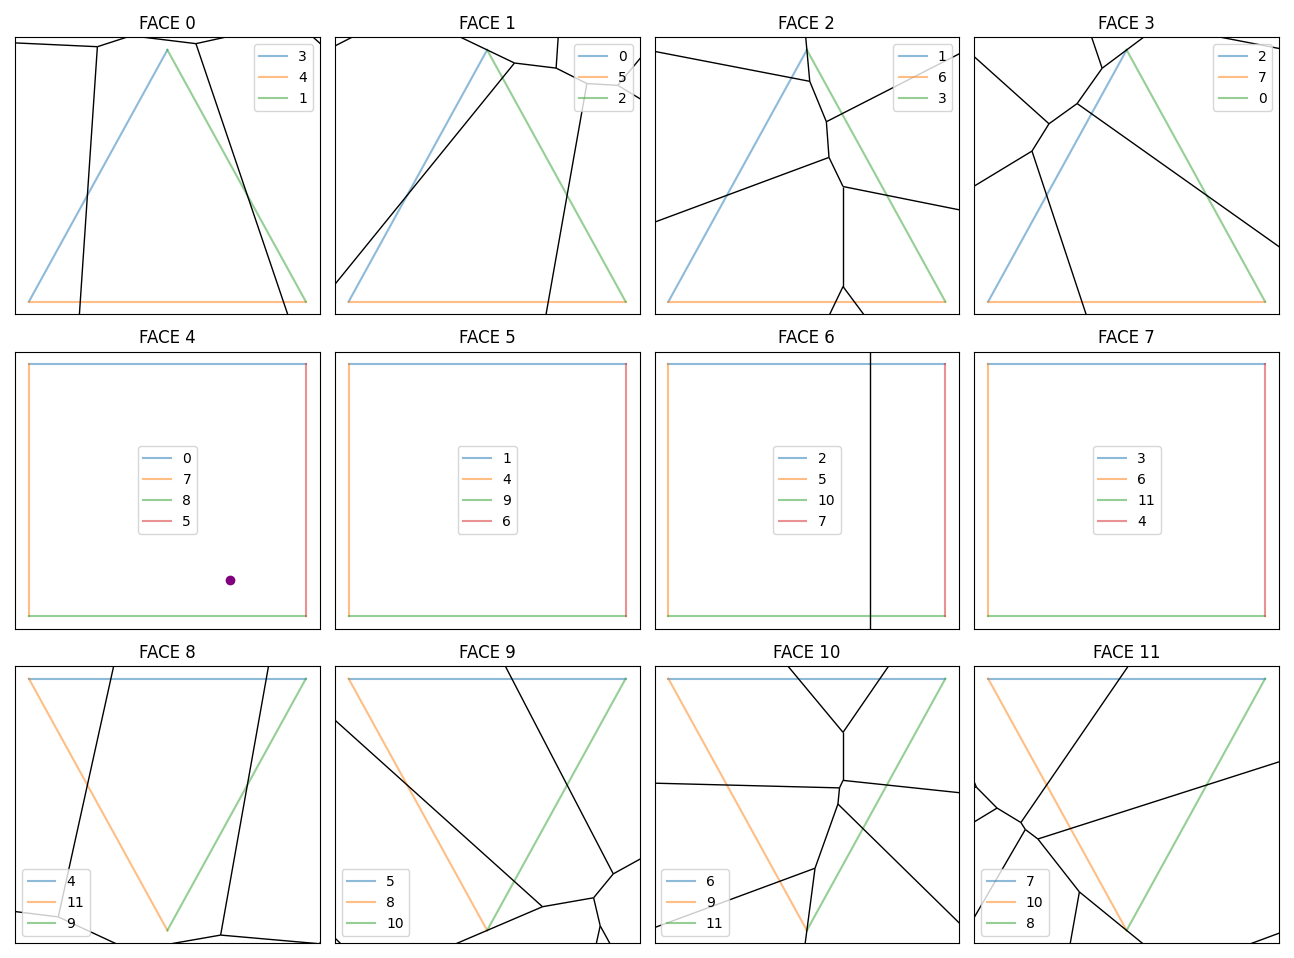
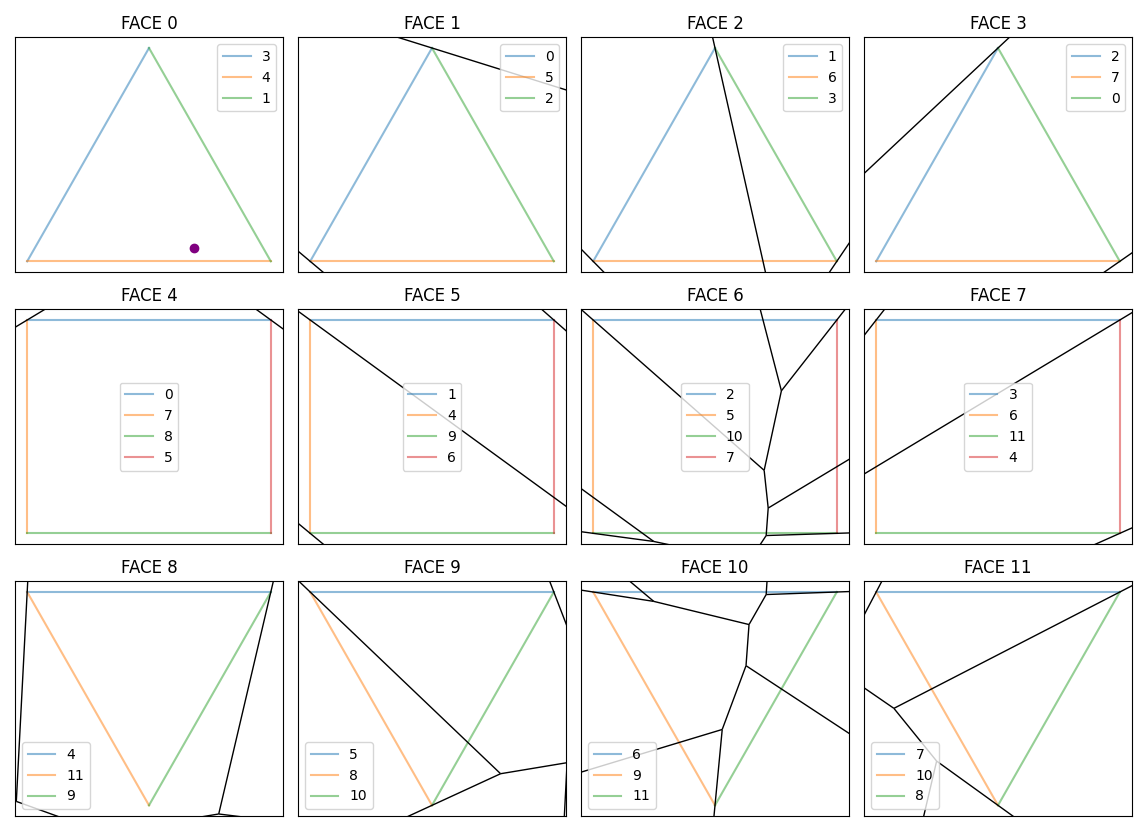
MORE

diff --git a/src/shape_creation.py b/src/shape_creation.py
@@ -40,12 +40,12 @@ class Prism(Shape):
 
     def faces_to_plot_n_m(self):
         def face_map(i, j):
-            mid = self.n//2
+            shift = self.n//2
             if i == 1:
-                return self.faces[(j - mid)%self.n]
-            if i == 0 and j == mid:
+                return self.faces[(j - shift)%self.n]
+            if i == 0 and j == shift:
                 return self.faces[self.n]
-            if i == 2 and j == mid:
+            if i == 2 and j == shift:
                 return self.faces[self.n + 1]
             return None
 
@@ -363,12 +363,15 @@ class Antiprism(Shape):
 class ElongatedBipyramid(Shape):
     def __init__(self, n):
         """
-        makes bipyramid with 2n triangles(3<=n<=6) and n squares
+        makes elongated bipyramid with 2n triangles(3<=n<=6) and n squares
         triangle faces 0 to (n-1) are on the top (1 to the right of 0)
         square faces n to 2n-1 are on the bottom (n+1 to the right of n)
         triangle faces 2n to 3n-1 are on the bottom (n+1 to the right of n)
 
         face i is above face i+n
+
+        triangle faces have an inscribed circle radius 1
+        thus, square side lengths are 2*sqrt(3)
         """
         super().__init__()
         assert 2 <= n and n <= 6
@@ -378,6 +381,9 @@ class ElongatedBipyramid(Shape):
         I = np.identity(2)
         e1 = np.array([[1], [0]])
         e2 = np.array([[0], [1]])
+
+        square_r = np.sqrt(3)
+
         for i in range(n):
             curr = self.faces[i]
             neigh = self.faces[(i + 1)%n]
@@ -386,7 +392,7 @@ class ElongatedBipyramid(Shape):
         for i in range(n):
             curr = self.faces[n + i]
             neigh = self.faces[n + (i + 1)%n]
-            curr.add_boundary_paired(neigh, e1.T, 1, -e1, I, -e1)
+            curr.add_boundary_paired(neigh, e1.T, square_r, -square_r*e1, I, -square_r*e1)
 
         for i in range(n):
             curr = self.faces[2*n + i]
@@ -397,12 +403,71 @@ class ElongatedBipyramid(Shape):
             top = self.faces[i]
             mid = self.faces[n + i]
             bot = self.faces[2*n + i]
-            for t, b in ((top, mid), (mid, bot)):
-                t.add_boundary_paired(b, -e2.T, 1, e2, I, e2)
+            top.add_boundary_paired(mid, -e2.T, 1, e2, I, square_r*e2)
+            mid.add_boundary_paired(bot, -e2.T, square_r, square_r*e2, I, e2)
 
     def faces_to_plot_n_m(self):
         def face_map(i, j):
             return self.faces[i*self.n + j]
+
+        return face_map, 3, self.n
+
+
+class ElongatedPyramid(Shape):
+    def __init__(self, n):
+        """
+        makes elongated pyramid with n triangles(3<=n<=6), n squares, and one n-gon
+        triangle faces 0 to (n-1) are on the top (1 to the right of 0)
+        square faces n to 2n-1 are on the bottom (n+1 to the right of n)
+        face i is above face i+n
+
+        n-gon is face 2n on the bottom (face n is above face 2n)
+
+        square faces have side length 2
+        thus, triangle faces have an inscribed circle of 1/sqrt(3)
+        n-gon has a face with inscribed r = 1/tan(pi/n)
+        """
+        super().__init__()
+        assert 2 <= n and n <= 6
+        self.n = n
+        for i in range(2*n + 1):
+            self.add_face()
+        I = np.identity(2)
+        e1 = np.array([[1], [0]])
+        e2 = np.array([[0], [1]])
+        triangle_r = 1/np.sqrt(3)
+        n_gon_r = 1/np.tan(np.pi/n)
+        for i in range(n):
+            curr = self.faces[i]
+            neigh = self.faces[(i + 1)%n]
+            curr.add_boundary_paired(neigh, rowtation(np.pi/6), triangle_r, -triangle_r*coltation(np.pi/6), rotation_T(-np.pi/3), triangle_r*coltation(np.pi*5/6))
+
+        for i in range(n):
+            curr = self.faces[n + i]
+            neigh = self.faces[n + (i + 1)%n]
+            curr.add_boundary_paired(neigh, e1.T, 1, -e1, I, -e1)
+
+        for i in range(n):
+            top = self.faces[i]
+            bot = self.faces[n + i]
+            top.add_boundary_paired(bot, -e2.T, triangle_r, triangle_r*e2, I, e2)
+
+        bottom = self.faces[2*n]
+        for i in range(n):
+            curr = self.faces[n + i]
+            theta = np.pi/2 - 2*np.pi*i/n
+            # "angle" of boundary of bottom face.
+            bottom.add_boundary_paired(curr, rowtation(theta), n_gon_r, -n_gon_r*coltation(theta), rotation_T(2*np.pi*i/n), -e2)
+
+    def faces_to_plot_n_m(self):
+        shift = self.n//2
+
+        def face_map(i, j):
+            if i <= 1:
+                return self.faces[i*self.n + (j - shift)%self.n]
+            elif j == shift:
+                return self.faces[2*self.n]
+            return None
 
         return face_map, 3, self.n
 

diff --git a/voronoi_interactive.py b/voronoi_interactive.py
@@ -1,5 +1,5 @@
 from src.shapes import Shape
-from src.shape_creation import Tetrahedron, Cube, Octahedron, Dodecahedron, Icosahedron, Prism, Pyramid, Bipyramid, ElongatedBipyramid, Antiprism, Large2Torus
+from src.shape_creation import Tetrahedron, Cube, Octahedron, Dodecahedron, Icosahedron, Prism, Pyramid, ElongatedPyramid, Bipyramid, ElongatedBipyramid, Antiprism, Large2Torus
 import argparse
 import numpy as np
 
@@ -10,12 +10,13 @@ mapping = {'tetrahedron':Tetrahedron,
            'icosahedron':Icosahedron,
            'pyramid':Pyramid,
            'bipyramid':Bipyramid,
-           'longpyramid':ElongatedBipyramid,
+           'longpyramid':ElongatedPyramid,
+           'longbipyramid':ElongatedBipyramid,
            'prism':Prism,
            'antiprism':Antiprism,
            'torus':Large2Torus}
 
-arg_n = ('prism', 'antiprism', 'pyramid', 'bipyramid', 'longpyramid')
+arg_n = ('prism', 'antiprism', 'pyramid', 'longpyramid', 'bipyramid', 'longbipyramid')
 # shapes that take n as an arg
 
 PARSER = argparse.ArgumentParser()
